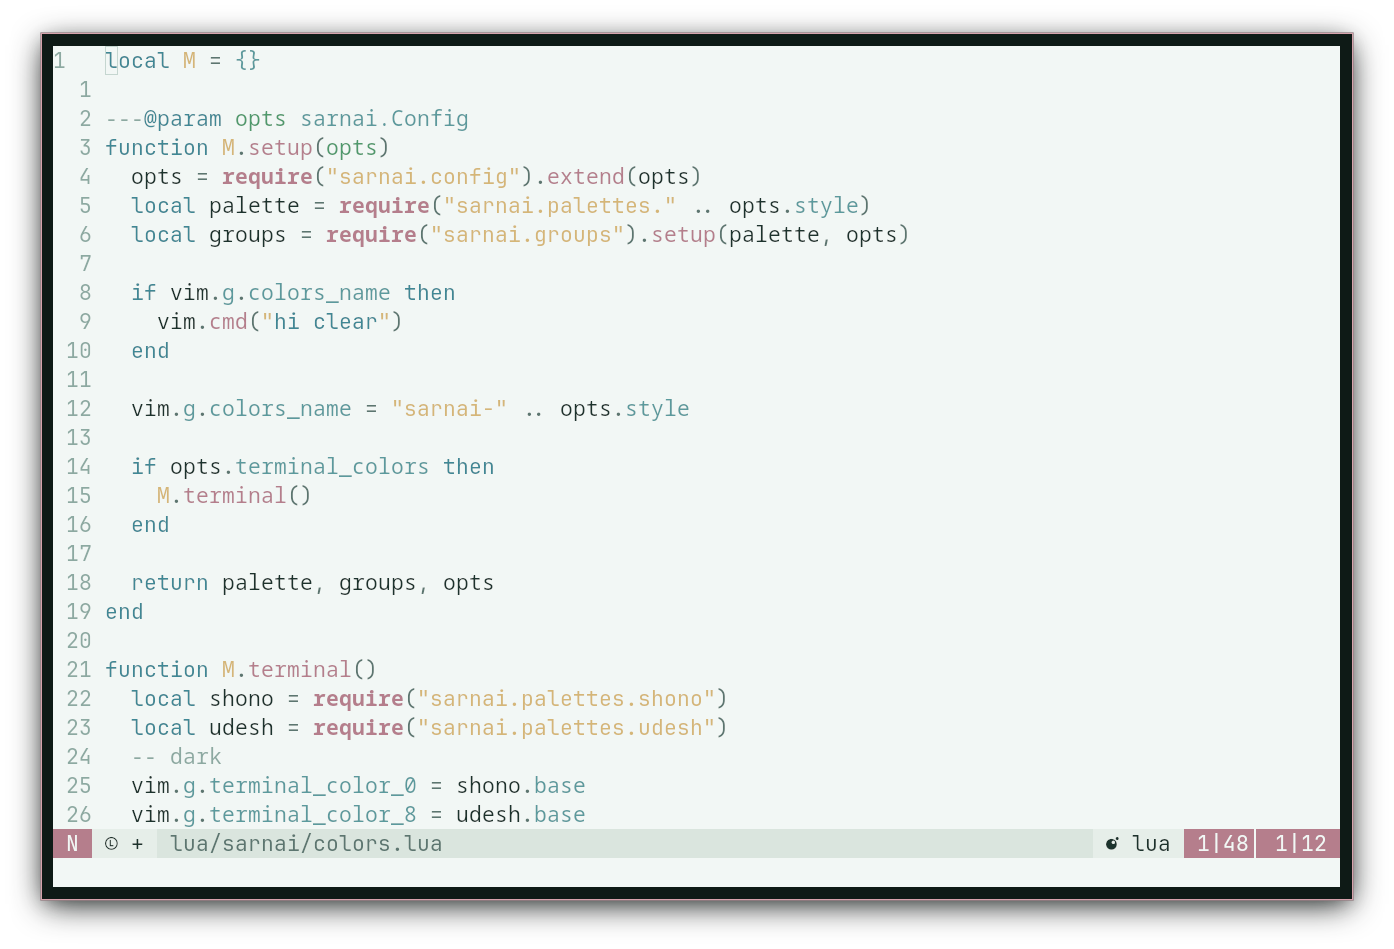
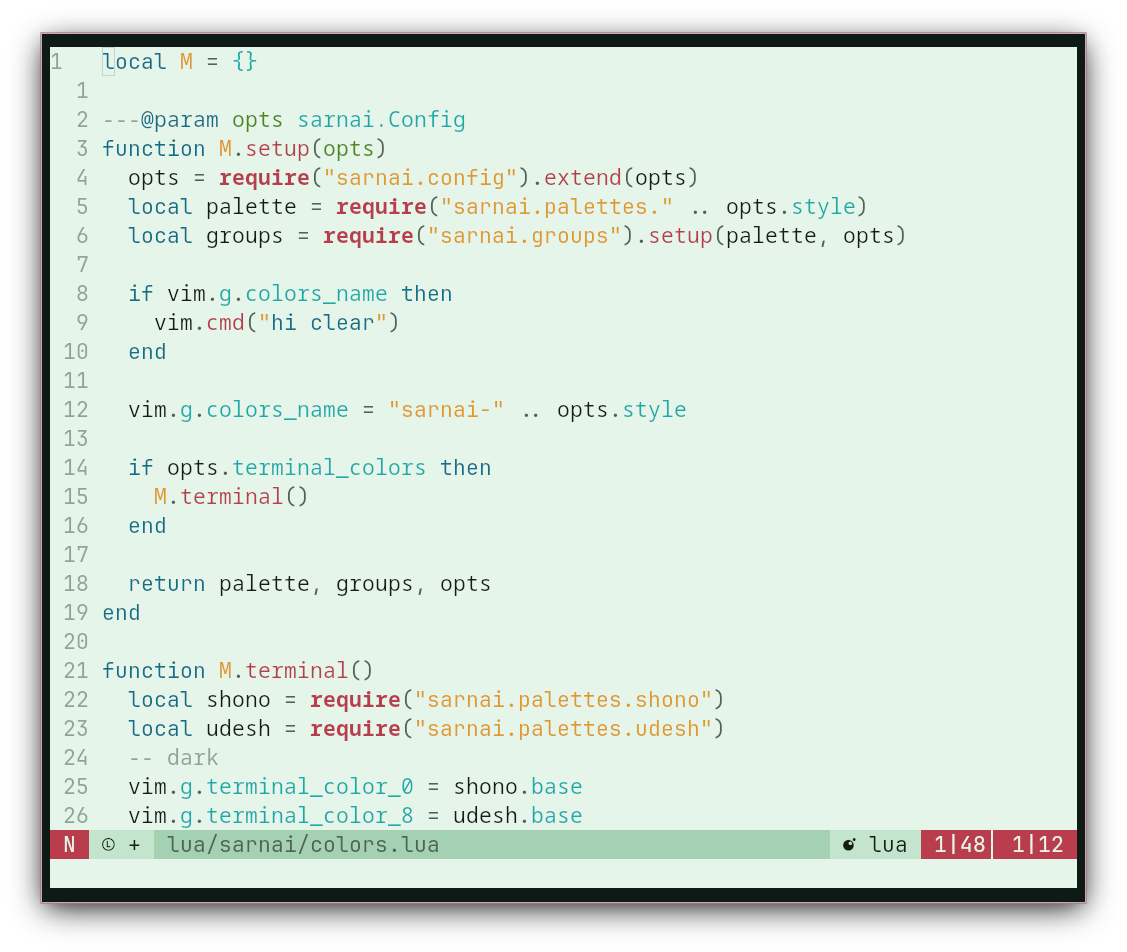
update: palette, assets

diff --git a/README.md b/README.md
@@ -6,13 +6,9 @@
   <a href="https://github.com/titembaatar/sarnai/blob/main/LICENSE"><img src="https://img.shields.io/badge/LICENSE-MIT-9d4a40?style=for-the-badge"></a>
 </p>
 
----
-
 > **This is the Neovim colorscheme repository for `sarnai`.**  
 > The theme repository (including palettes, integrations, etc...) is at:  
 > 👉 **[titembaatar/sarnai](https://github.com/titembaatar/sarnai)**  
-
----
 
 ## Features
 - Three styles:  
@@ -28,8 +24,6 @@
   - [mini.statusline](https://github.com/echasnovski/mini.nvim)
   - [lazgit.nvim](https://github.com/kdheepak/lazygit.nvim)
 
----
-
 ## 📦 Installation
 
 ### **lazy.nvim**
@@ -44,8 +38,6 @@ return {
 }
 ```
 
----
-
 ## Gallery
 <h4 align="center">🌌 Шөнө (Shono) - Night</h4>
 <p align="center">
@@ -59,8 +51,6 @@ return {
 <p align="center">
   <img src="./assets/nvim_ogloo.png" style="width: 80%">
 </p>
-
----
 
 ## Configuration
 
@@ -82,8 +72,6 @@ require("sarnai").setup({
   },
 })
 ```
-
----
 
 ## 🫱🏼🫲🏽 Contributing
 PRs are welcome! If you'd like to help:
